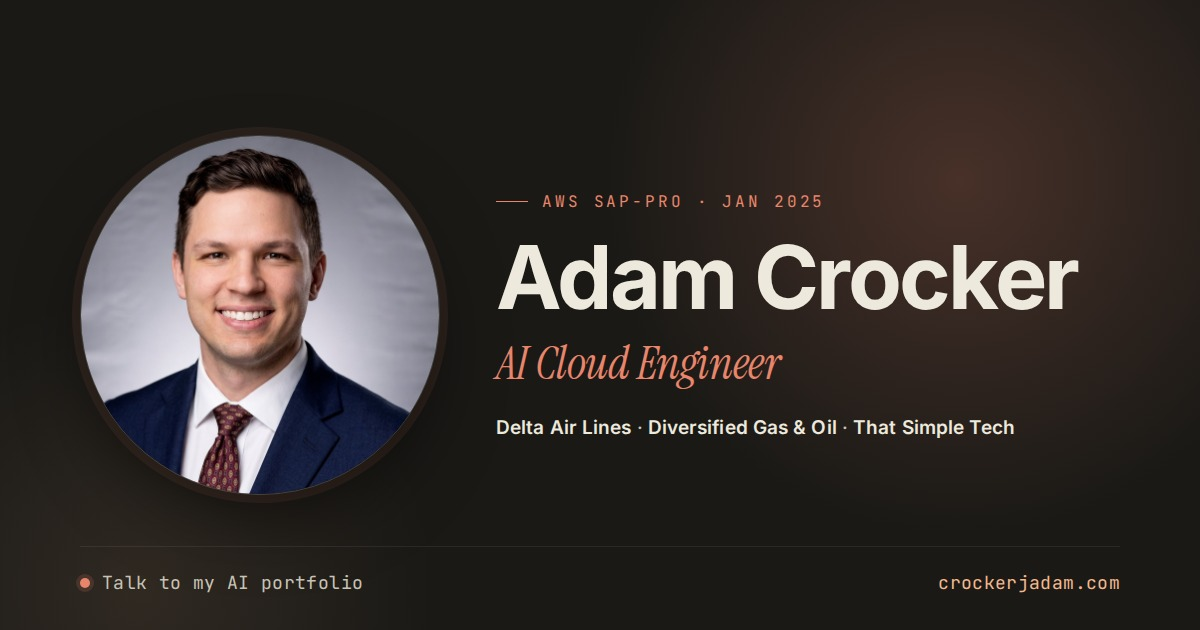
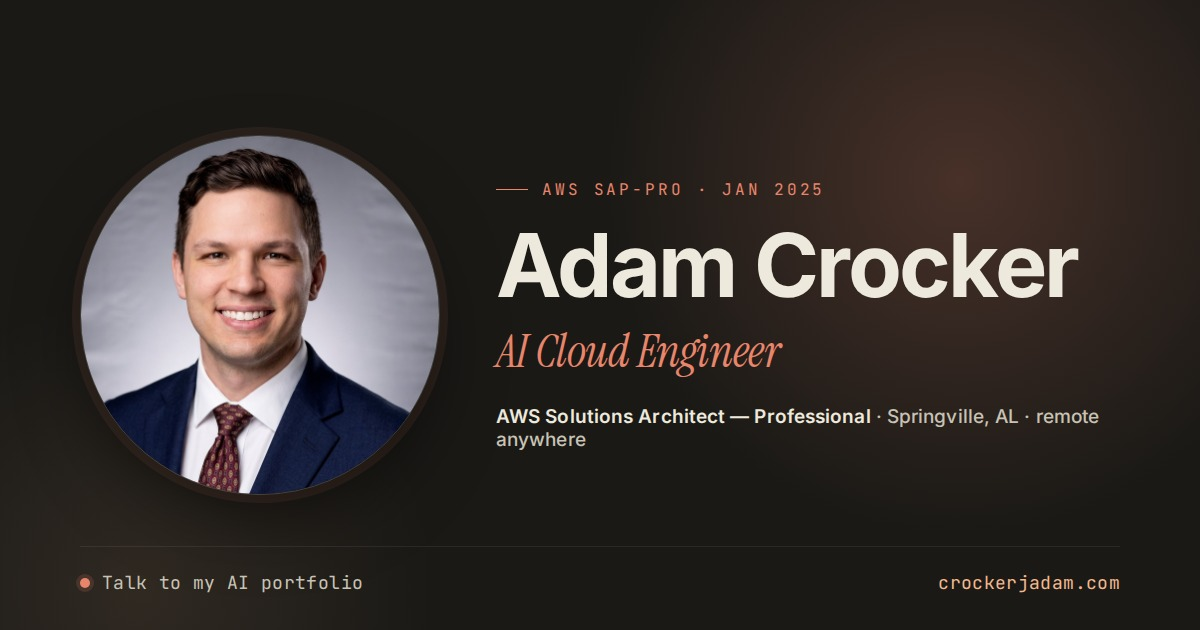
Stop enumerating multiple roles — full sweep
- Chat intro paragraph: lead with Delta only, remove DGO + TST mention
- Sidebar: remove DGO and TST threads (still reachable via keyword routing if asked)
- classic hero-meta: drop org pills, keep credential + location only
- OG image: replace 'Delta · DGO · TST' line with 'AWS SAP · Springville · remote'
- OG/Twitter/meta descriptions: remove org enumeration on both index and classic

Changed region(s): [[0.4008, 0.3619, 0.925, 0.7238], [0.4317, 0.2714, 0.7092, 0.3317]]

diff --git a/index.html b/index.html
@@ -17,7 +17,7 @@
     <meta property="og:type" content="website" />
     <meta property="og:site_name" content="Adam Crocker" />
     <meta property="og:title" content="Adam Crocker — AI Cloud Engineer" />
-    <meta property="og:description" content="Chat with an AI version of Adam Crocker — AWS Solutions Architect Professional. Delta Air Lines, Diversified Gas &amp; Oil, That Simple Tech." />
+    <meta property="og:description" content="Chat with an AI version of Adam Crocker — AI Cloud Engineer &amp; AWS Solutions Architect Professional. Springville, AL · remote anywhere." />
     <meta property="og:url" content="https://crockerjadam.com/" />
     <meta property="og:image" content="https://crockerjadam.com/assets/og-image.jpg" />
     <meta property="og:image:secure_url" content="https://crockerjadam.com/assets/og-image.jpg" />
@@ -30,7 +30,7 @@
     <!-- Twitter Card -->
     <meta name="twitter:card" content="summary_large_image" />
     <meta name="twitter:title" content="Adam Crocker — AI Cloud Engineer" />
-    <meta name="twitter:description" content="Chat with an AI version of Adam Crocker. AWS SAP-Pro. Delta · Diversified Gas &amp; Oil · That Simple Tech." />
+    <meta name="twitter:description" content="Chat with an AI version of Adam Crocker. AI Cloud Engineer · AWS SAP-Pro · Springville, AL." />
     <meta name="twitter:image" content="https://crockerjadam.com/assets/og-image.jpg" />
     <meta name="twitter:image:alt" content="Adam Crocker, AI Cloud Engineer" />
 
@@ -73,14 +73,6 @@
             </button>
             <button class="sb-item" data-thread="delta">
               <span class="sb-item-title">Tell me about your Delta work</span>
-              <span class="sb-item-time">Today</span>
-            </button>
-            <button class="sb-item" data-thread="dgo">
-              <span class="sb-item-title">Diversified Gas &amp; Oil deep-dive</span>
-              <span class="sb-item-time">Today</span>
-            </button>
-            <button class="sb-item" data-thread="tst">
-              <span class="sb-item-title">That Simple Tech — the agency thing</span>
               <span class="sb-item-time">Today</span>
             </button>
             <button class="sb-item" data-thread="stack">
@@ -169,7 +161,7 @@
          ========================================================= -->
     <template id="t-intro">
       <p>Hey — I'm <strong>Adam Crocker</strong>. AI Cloud Engineer, AWS Solutions Architect — Professional (Jan 2025, valid Jan 2028). Based in <strong>Springville, Alabama</strong>; remote anywhere.</p>
-      <p>I work in two roles right now: <strong>Data Engineer on Delta's ODSR team</strong> (moving to Delta's <strong>AI Enablement team</strong> in June 2026) and <strong>Systems Engineer at Diversified Gas &amp; Oil</strong> since Aug 2025. I also run <strong>That Simple Tech</strong> on the side — an AI-native consultancy.</p>
+      <p>I'm a <strong>Data Engineer on Delta Air Lines' ODSR team</strong>, moving to Delta's <strong>AI Enablement team</strong> in June 2026 — that's where most of my recent work lives.</p>
       <p>The short version of what I do: <em>I build AI-native systems for businesses of every size</em>. Fortune 500 down to mom-and-pop shops. Same person, same care.</p>
       <div class="msg-actions">
         <button class="chip" data-prompt="What have you shipped?">▸ What have you shipped?</button>

diff --git a/classic.html b/classic.html
@@ -5,7 +5,7 @@
     <meta name="viewport" content="width=device-width, initial-scale=1, viewport-fit=cover" />
     <meta name="color-scheme" content="dark" />
     <title>Adam Crocker — AI Cloud Engineer</title>
-    <meta name="description" content="Adam Crocker — AI Cloud Engineer, AWS Solutions Architect Professional. Delta Air Lines · Diversified Gas & Oil · That Simple Tech." />
+    <meta name="description" content="Adam Crocker — AI Cloud Engineer · AWS Solutions Architect Professional. Selected work, stack, and contact." />
     <meta name="theme-color" content="#1a1916" />
     <link rel="icon" href="/assets/favicon.svg" type="image/svg+xml" />
     <link rel="canonical" href="https://crockerjadam.com/classic.html" />
@@ -17,7 +17,7 @@
     <meta property="og:type" content="profile" />
     <meta property="og:site_name" content="Adam Crocker" />
     <meta property="og:title" content="Adam Crocker — AI Cloud Engineer" />
-    <meta property="og:description" content="AI Cloud Engineer · AWS Solutions Architect Professional. Selected work, stack, and contact — Delta Air Lines, Diversified Gas &amp; Oil, That Simple Tech." />
+    <meta property="og:description" content="AI Cloud Engineer · AWS Solutions Architect Professional. Selected work, stack, and contact. Springville, Alabama — remote anywhere." />
     <meta property="og:url" content="https://crockerjadam.com/classic.html" />
     <meta property="og:image" content="https://crockerjadam.com/assets/og-image.jpg" />
     <meta property="og:image:secure_url" content="https://crockerjadam.com/assets/og-image.jpg" />
@@ -356,9 +356,8 @@
             <p class="hero-role">Fortune 500 down to mom-and-pop shops — same person, same care. AWS Solutions Architect — Professional. Based in Springville, Alabama; remote anywhere.</p>
             <div class="hero-meta">
               <span>SAP-Pro · Jan 2025</span>
-              <span>Delta Air Lines</span>
-              <span>Diversified Gas &amp; Oil</span>
-              <span>That Simple Tech</span>
+              <span>Springville, AL</span>
+              <span>Remote anywhere</span>
             </div>
           </div>
           <div>
